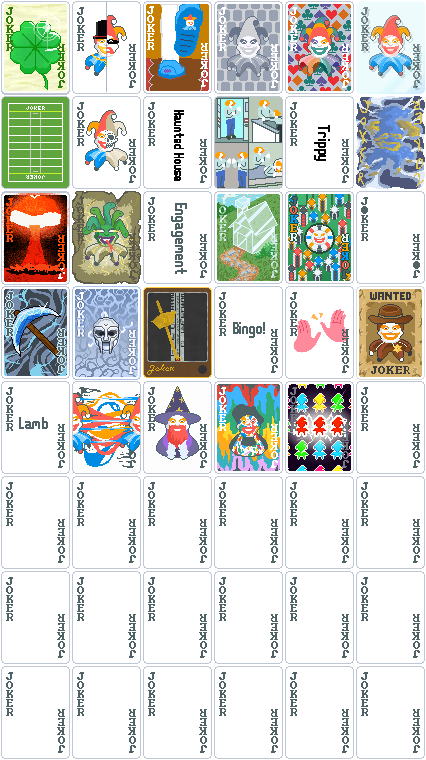
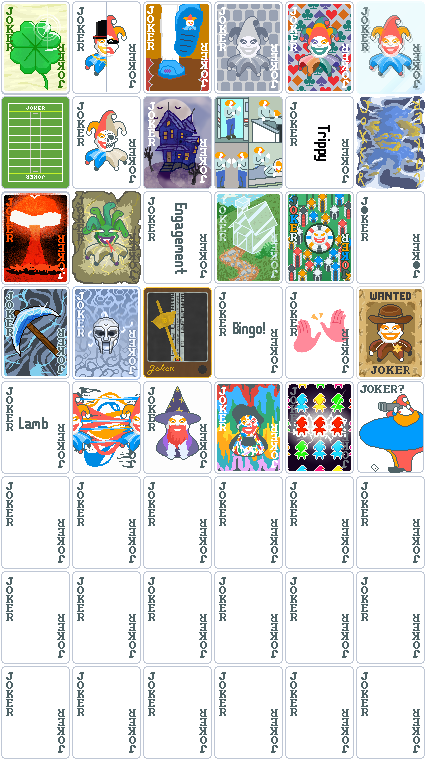
Added "Where is the Joker?" Joker and updated Joker Textures - Added the "Where is the Joker?" Joker - Updated Joker Textures for "Where is the Joker?" and "Haunted House"

Changed region(s): [[0.3357, 0.1211, 0.5188, 0.2724], [0.8239, 0.4842, 1.0, 0.6355]]

diff --git a/planning.md b/planning.md
@@ -20,7 +20,7 @@
 - [x] Bingo! [Link](https://www.reddit.com/r/balatro/comments/1kci768/how_about_this_for_a_fun_joker_idea/)
 - [x] Hi Five [Link](https://www.reddit.com/r/balatro/comments/1khcu0v/joker_concept_that_wants_to_be_sold_hi_five/) (Note: Change Art, Make it "Give 2$ for each 5 in your deck")
 - [x] Lamb [Link](https://www.reddit.com/r/balatro/comments/1kpz7nt/wish_we_had_more_questlike_jokers_similar_to/)
-- [x] Entangled Joker [Link](https://www.reddit.com/r/balatro/comments/1jfljha/custom_jokers_after_a_lot_of_thoughts_100/?utm_source=share&utm_medium=web3x&utm_name=web3xcss&utm_term=1&utm_content=share_button) (Note: Hard)
+- [x] Entangled Joker [Link](https://www.reddit.com/r/balatro/comments/1jfljha/custom_jokers_after_a_lot_of_thoughts_100/?utm_source=share&utm_medium=web3x&utm_name=web3xcss&utm_term=1&utm_content=share_button)
 - [x] Wizard [Link](https://www.reddit.com/r/balatro/comments/1jycf28/balanced_jonklers_volume_2/?utm_source=share&utm_medium=web3x&utm_name=web3xcss&utm_term=1&utm_content=share_button)
 - [x] Artist [Link](https://www.reddit.com/r/balatro/comments/1jycf28/balanced_jonklers_volume_2/?utm_source=share&utm_medium=web3x&utm_name=web3xcss&utm_term=1&utm_content=share_button)
 - [x] Match 3 [Link](https://www.reddit.com/r/balatro/comments/1jfljha/custom_jokers_after_a_lot_of_thoughts_100/?utm_source=share&utm_medium=web3x&utm_name=web3xcss&utm_term=1&utm_content=share_button)
